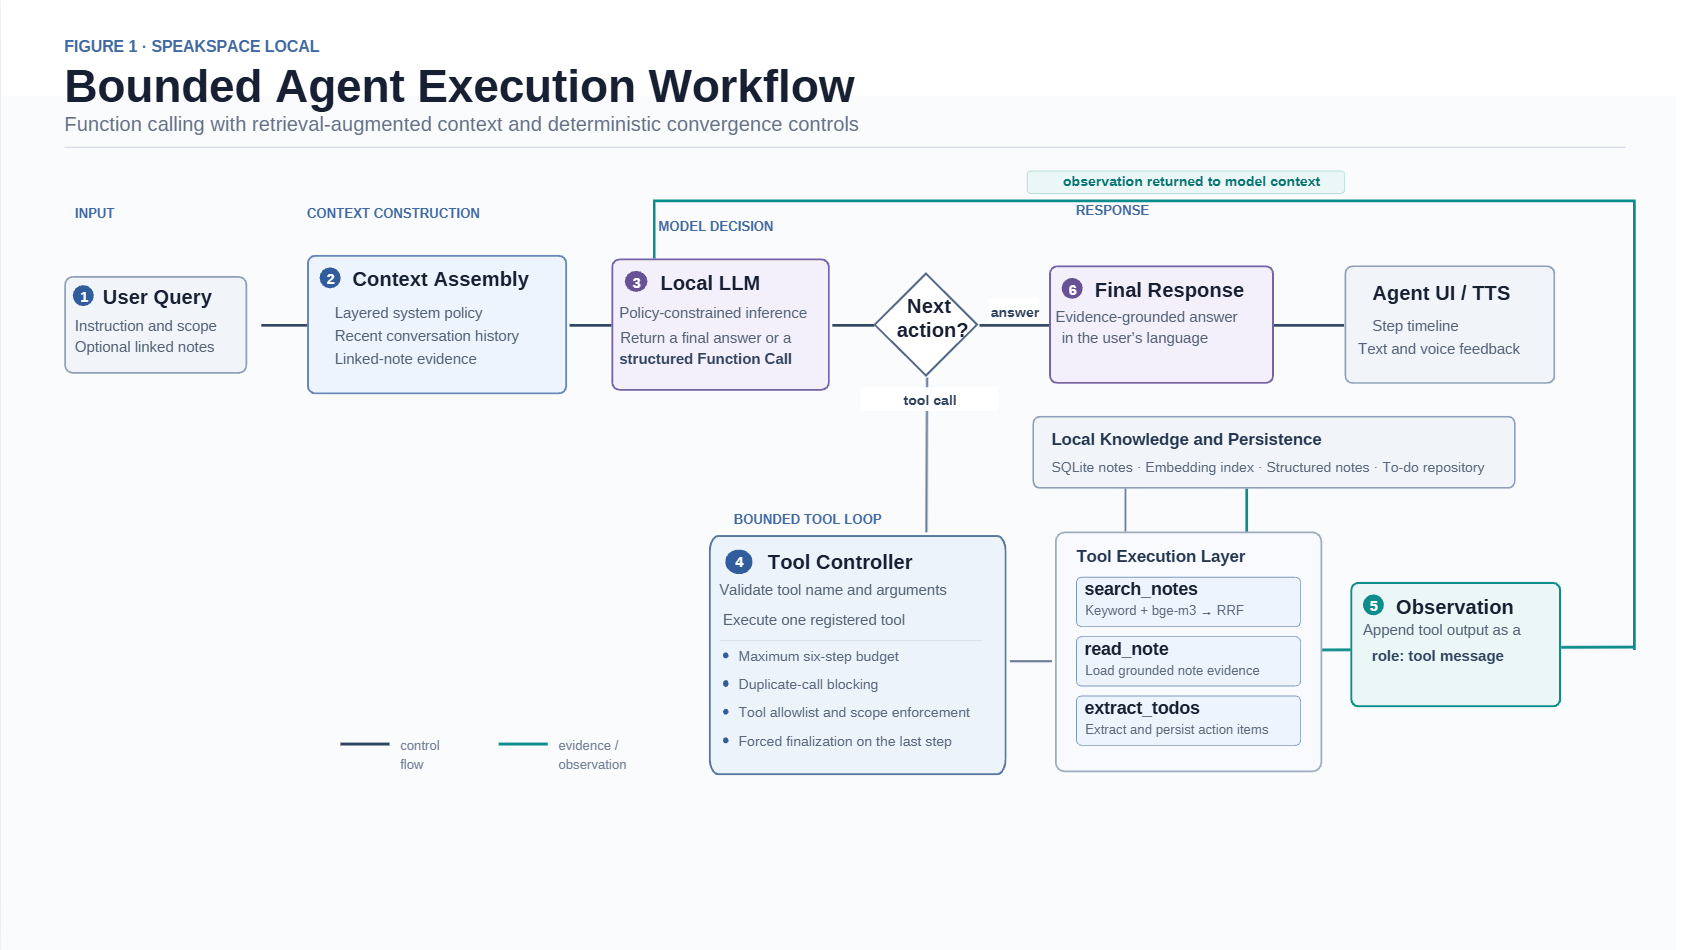
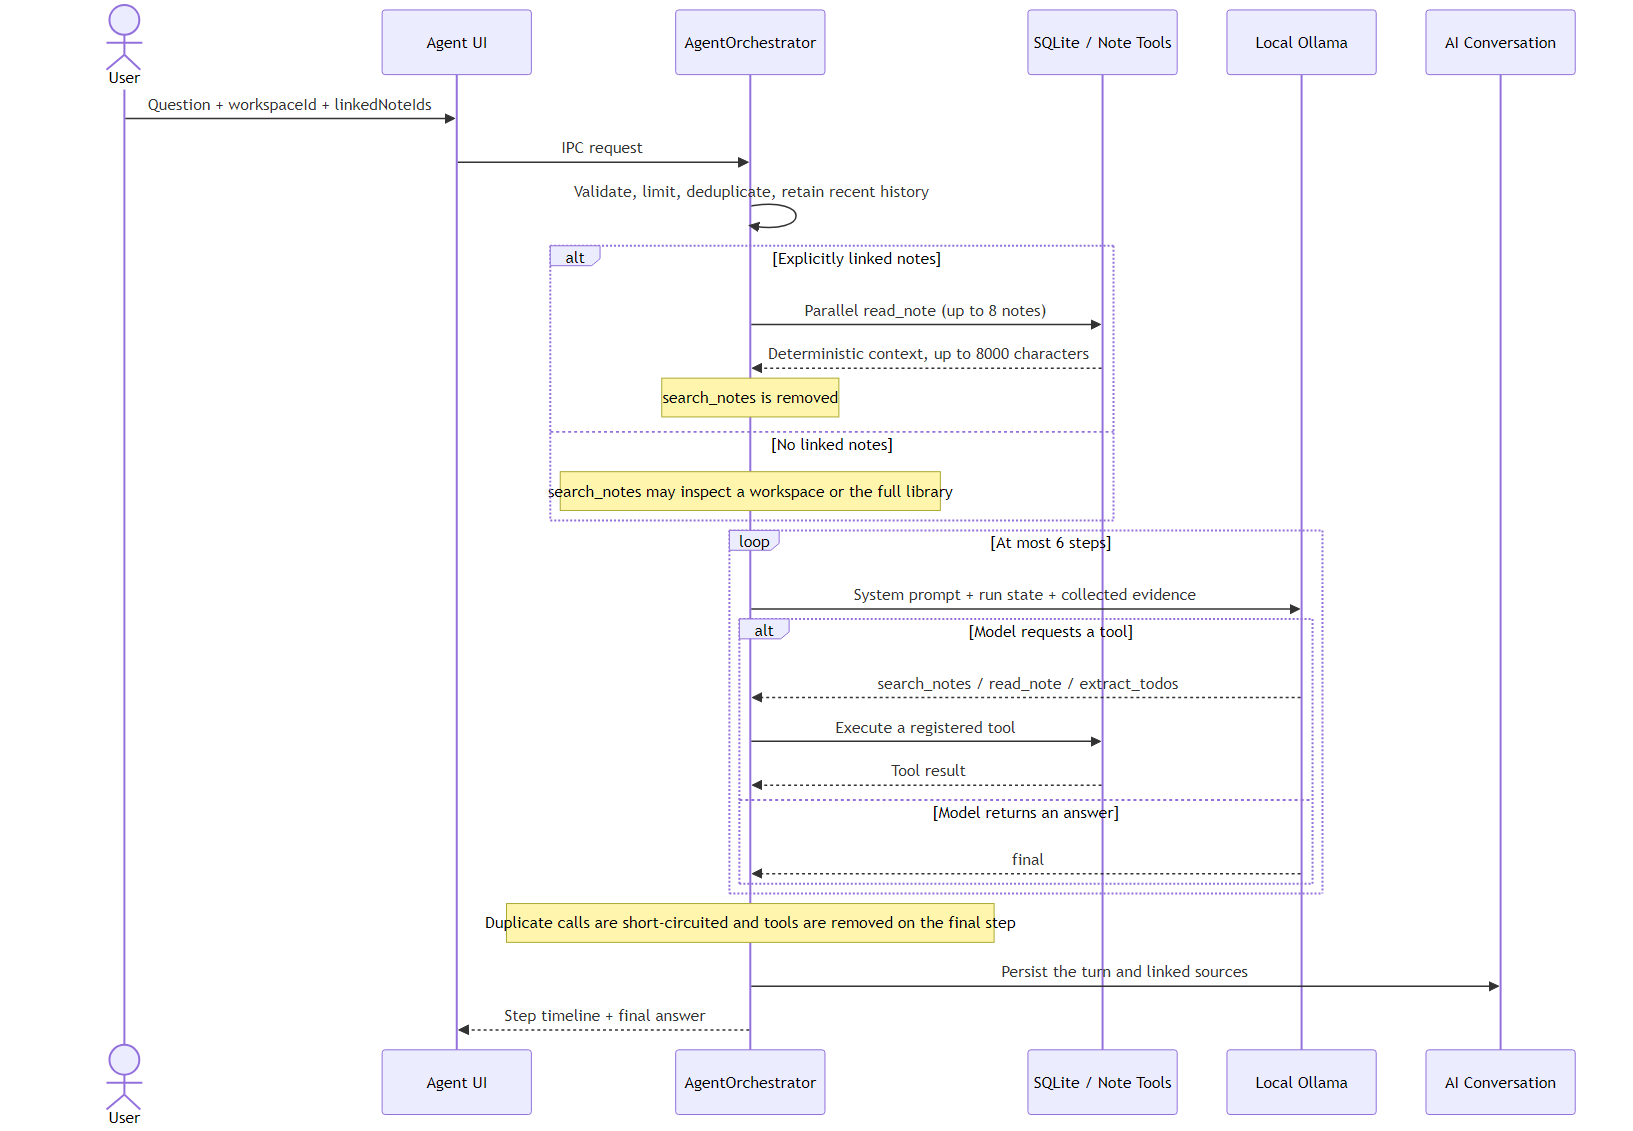
docs: restore original README diagrams

diff --git a/README.md b/README.md
@@ -57,6 +57,10 @@ SpeakSpace Local is an Electron desktop application that brings recording, audio
 
 ![SpeakSpace Local system architecture](docs/readme/system-architecture.png)
 
+The original diagram above preserves the repository's process-boundary view. The following implementation view adds the current model, persistence, and core-flow summary without replacing it.
+
+![SpeakSpace Local technical implementation](docs/readme/tech-implementation.png)
+
 ### Process boundaries
 
 | Layer | Responsibilities | Must not |
@@ -130,7 +134,11 @@ Semantic search caches vectors in `note_embeddings` and uses `content_hash` to d
 
 Ask AI is designed for question answering over a fixed scope. Agent mode lets the local model call tools within a bounded loop. When users link notes explicitly, those notes are loaded deterministically before the first inference step, and `search_notes` is removed from the available tool set so the model cannot ignore the requested scope.
 
-![Bounded Agent execution workflow](docs/readme/agent-workflow.png)
+![Original Agent request sequence](docs/readme/agent-workflow.png)
+
+The sequence diagram shows interactions over time; the controller view below highlights the decision point, bounded tool loop, evidence return path, and final response.
+
+![Bounded Agent controller workflow](docs/readme/bounded-agent-workflow.png)
 
 Code-level Agent bounds:
 
